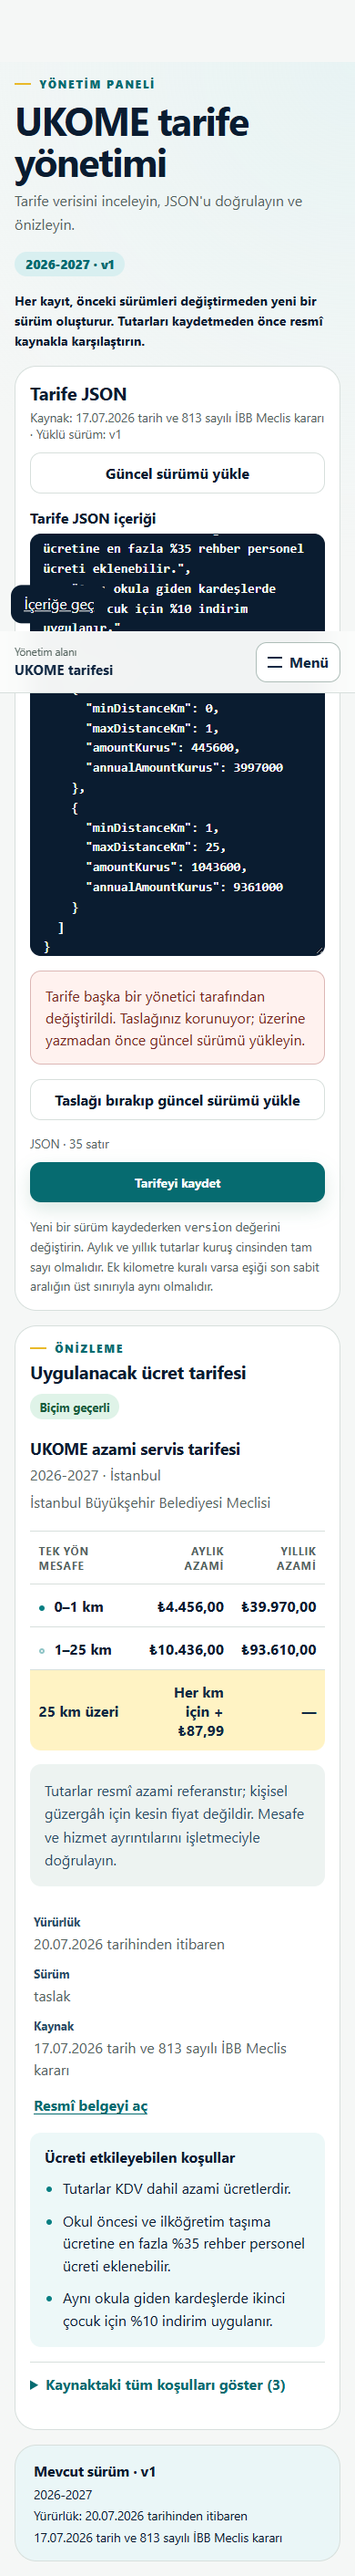
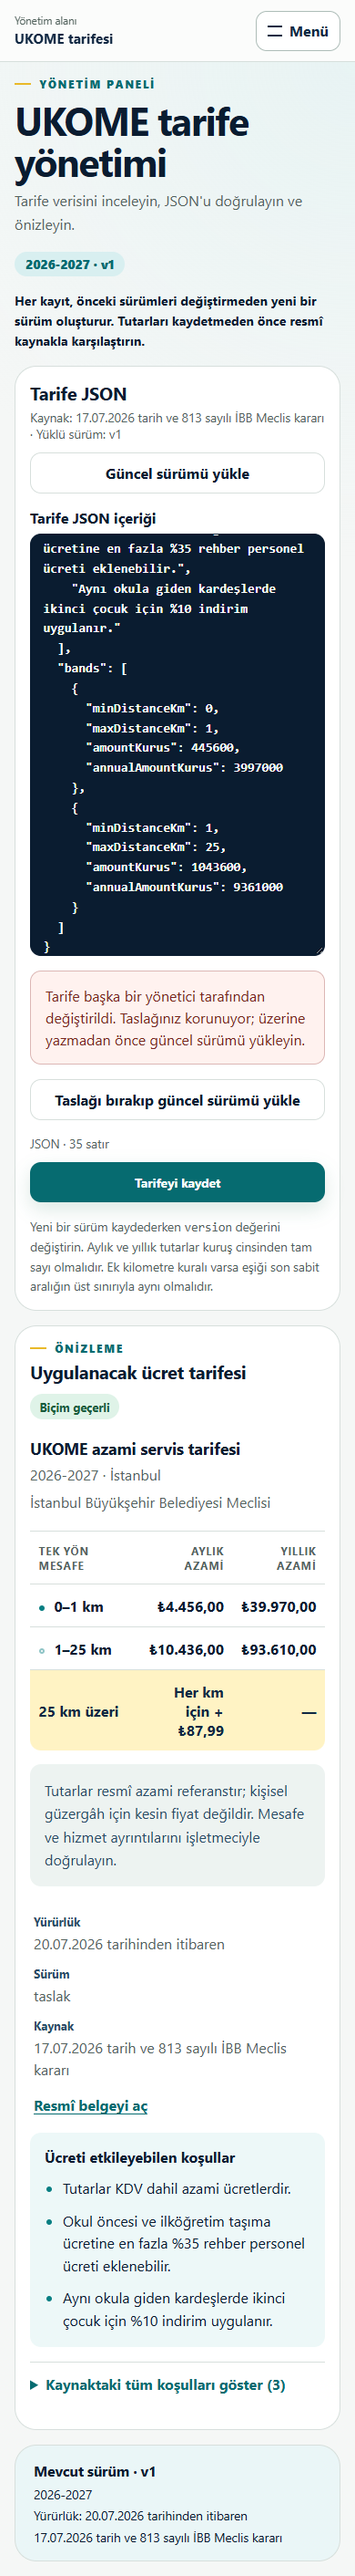
test(admin): cover overlapping tariff loads and mobile states
Complete overlapping tariff loads out of order and prove older responses
cannot change the draft, version, or next expected version. Cover the mobile
states in a browser and capture them after an instant scroll, because smooth
scrolling misplaced fixed elements in the full-page images.

Changed region(s): [[0.0308, 0.2181, 0.9231, 0.2805], [0.0615, 0.0, 0.2154, 0.0312], [0.8308, 0.0, 0.9231, 0.0312]]

diff --git a/servisimibul-frontend/src/features/admin/admin-flow.test.tsx b/servisimibul-frontend/src/features/admin/admin-flow.test.tsx
@@ -832,6 +832,168 @@ function deferred() {
   return { promise, resolve }
 }
 
+describe('overlapping tariff loads', () => {
+  function plannedLoads(
+    ...plan: ((gate: Promise<void>) => Promise<Response>)[]
+  ) {
+    const gates = plan.map(() => deferred())
+    const started = { count: 0 }
+    const handler = http.get('/api/v1/tariffs', async () => {
+      const index = started.count
+      started.count += 1
+      return plan[index](gates[index].promise)
+    })
+    return { gates, handler, started }
+  }
+
+  const success =
+    (version: string) =>
+    async (gate: Promise<void>): Promise<Response> => {
+      await gate
+      return HttpResponse.json(tariff(version))
+    }
+  const failure = async (gate: Promise<void>): Promise<Response> => {
+    await gate
+    return HttpResponse.json(
+      {
+        title: 'Error',
+        status: 500,
+        detail: 'Eski veya yeni yükleme hatası.',
+        code: 'failed',
+      },
+      { status: 500 },
+    )
+  }
+
+  // Both activations land before React re-renders, so two loads overlap.
+  function activateTwice(button: HTMLElement) {
+    act(() => {
+      button.click()
+      button.click()
+    })
+  }
+
+  async function settleLateResponse(release: () => void) {
+    const reads: Promise<unknown>[] = []
+    const read = Response.prototype.text
+    vi.spyOn(Response.prototype, 'text').mockImplementation(function (
+      this: Response,
+    ) {
+      const result = read.call(this)
+      reads.push(result)
+      return result
+    })
+    release()
+    await waitFor(() => expect(reads.length).toBeGreaterThan(0))
+    await act(async () => {
+      await Promise.all(reads)
+      await new Promise((resolve) => setTimeout(resolve, 0))
+    })
+    vi.mocked(Response.prototype.text).mockRestore()
+  }
+
+  async function expectSaveAgainst(expectedVersion: string, next: string) {
+    fireEvent.change(screen.getByLabelText('Tarife JSON içeriği'), {
+      target: { value: JSON.stringify(tariff(next)) },
+    })
+    fireEvent.click(screen.getByRole('button', { name: 'Tarifeyi kaydet' }))
+    expect(
+      await screen.findByText(`Tarife ${next} sürümüyle kaydedildi.`),
+    ).toBeInTheDocument()
+    expect(savedBody).toEqual({ expectedVersion, tariff: tariff(next) })
+  }
+
+  let savedBody: unknown
+  const saveHandler = http.put(
+    '/api/v1/admin/tariffs/34',
+    async ({ request }) => {
+      savedBody = await request.json()
+      return HttpResponse.json(
+        tariff((savedBody as { tariff: { version: string } }).tariff.version),
+      )
+    },
+  )
+
+  it('keeps the newer tariff when an older success arrives last', async () => {
+    const loads = plannedLoads(success('v0'), success('v1'), success('v2'))
+    loads.gates[0].resolve()
+    server.use(authHandler('ADMIN'), csrfHandler(), loads.handler, saveHandler)
+    renderRoute('/admin/tariffs')
+    await screen.findByLabelText('Tarife JSON içeriği')
+
+    activateTwice(screen.getByRole('button', { name: 'Güncel sürümü yükle' }))
+    await waitFor(() => expect(loads.started.count).toBe(3))
+    loads.gates[2].resolve()
+    const editor = await screen.findByLabelText('Tarife JSON içeriği')
+    expect(editor).toHaveValue(JSON.stringify(tariff('v2'), null, 2))
+
+    await settleLateResponse(loads.gates[1].resolve)
+
+    expect(screen.getByLabelText('Tarife JSON içeriği')).toHaveValue(
+      JSON.stringify(tariff('v2'), null, 2),
+    )
+    expect(screen.getByText(/Yüklü sürüm: v2/)).toBeInTheDocument()
+    expect(
+      screen.getByRole('heading', { name: 'Mevcut sürüm · v2' }),
+    ).toBeInTheDocument()
+    await expectSaveAgainst('v2', 'v3')
+  })
+
+  it('shows no error when an older failure arrives last', async () => {
+    const loads = plannedLoads(success('v0'), failure, success('v2'))
+    loads.gates[0].resolve()
+    server.use(authHandler('ADMIN'), csrfHandler(), loads.handler, saveHandler)
+    renderRoute('/admin/tariffs')
+    await screen.findByLabelText('Tarife JSON içeriği')
+
+    activateTwice(screen.getByRole('button', { name: 'Güncel sürümü yükle' }))
+    await waitFor(() => expect(loads.started.count).toBe(3))
+    loads.gates[2].resolve()
+    await screen.findByLabelText('Tarife JSON içeriği')
+
+    await settleLateResponse(loads.gates[1].resolve)
+
+    expect(screen.queryByRole('alert')).not.toBeInTheDocument()
+    const editor = screen.getByLabelText('Tarife JSON içeriği')
+    expect(editor).toHaveValue(JSON.stringify(tariff('v2'), null, 2))
+    expect(editor).toHaveProperty('readOnly', false)
+    expect(screen.getByText(/Yüklü sürüm: v2/)).toBeInTheDocument()
+    await expectSaveAgainst('v2', 'v3')
+  })
+
+  it('keeps the latest failure and the draft when an older success arrives last', async () => {
+    const loads = plannedLoads(success('v1'), success('v-old'), failure)
+    loads.gates[0].resolve()
+    server.use(authHandler('ADMIN'), csrfHandler(), loads.handler, saveHandler)
+    renderRoute('/admin/tariffs')
+    const editor = await screen.findByLabelText('Tarife JSON içeriği')
+    const draft = JSON.stringify(tariff('my-draft'))
+    fireEvent.change(editor, { target: { value: draft } })
+    fireEvent.click(screen.getByRole('button', { name: 'Güncel sürümü yükle' }))
+    activateTwice(
+      within(
+        await screen.findByRole('dialog', {
+          name: 'Kaydedilmemiş taslak bırakılsın mı?',
+        }),
+      ).getByRole('button', { name: 'Taslağı bırak' }),
+    )
+    await waitFor(() => expect(loads.started.count).toBe(3))
+    loads.gates[2].resolve()
+    expect(await screen.findByRole('alert')).toHaveTextContent(
+      'Eski veya yeni yükleme hatası.',
+    )
+
+    await settleLateResponse(loads.gates[1].resolve)
+
+    expect(screen.getByRole('alert')).toHaveTextContent(
+      'Eski veya yeni yükleme hatası.',
+    )
+    expect(screen.getByLabelText('Tarife JSON içeriği')).toHaveValue(draft)
+    expect(screen.getByText(/Yüklü sürüm: v1/)).toBeInTheDocument()
+    await expectSaveAgainst('v1', 'my-draft')
+  })
+})
+
 describe('school editor asynchronous ordering', () => {
   const second = {
     ...school(true),

diff --git a/servisimibul-frontend/e2e/ui-fidelity-16-admin-tariffs.spec.ts b/servisimibul-frontend/e2e/ui-fidelity-16-admin-tariffs.spec.ts
@@ -1,5 +1,5 @@
 import AxeBuilder from '@axe-core/playwright'
-import { expect, test, type Page } from '@playwright/test'
+import { expect, test, type Locator, type Page } from '@playwright/test'
 import { createMockApiState, installMockApi } from './support/mock-api'
 
 const viewports = [
@@ -124,6 +124,77 @@ test('M04 offers a retry when the tariff cannot load', async ({ page }) => {
   await expect(page.getByLabel('Tarife JSON içeriği')).toBeVisible()
 })
 
+for (const viewport of [
+  { name: 'mobile', width: 390, height: 844 },
+  { name: 'compact', width: 320, height: 800 },
+] as const) {
+  test(`M04 stays usable after validation and conflict on ${viewport.name}`, async ({
+    page,
+  }) => {
+    await page.setViewportSize(viewport)
+    await prepare(page)
+    await page.goto('/admin/tariffs')
+    const editor = page.getByLabel('Tarife JSON içeriği')
+    await expect(editor).toBeVisible()
+    const loaded = await editor.inputValue()
+    const skipLink = page.getByRole('link', { name: 'İçeriğe geç' })
+    const save = page.getByRole('button', { name: 'Tarifeyi kaydet' })
+
+    await page.keyboard.press('Tab')
+    await expect(skipLink).toBeFocused()
+    await expect(skipLink).toBeInViewport({ ratio: 1 })
+    await editor.click()
+    await expect(skipLink).not.toBeInViewport()
+
+    await expect(editor).toHaveJSProperty('scrollTop', 0)
+    await editor.evaluate((node) => {
+      node.scrollTop = 200
+    })
+    await expect(editor).not.toHaveJSProperty('scrollTop', 0)
+
+    await editor.fill('{ geçersiz')
+    await save.click()
+    const alert = page.getByRole('alert')
+    await expect(alert).toContainText('JSON biçimi geçersiz')
+    await expect(skipLink).not.toBeInViewport()
+    await assertReachable(page, alert)
+    await assertReachable(page, save)
+    await assertReachable(
+      page,
+      page.getByRole('button', { name: 'Güncel sürümü yükle' }),
+    )
+    await assertAccessibleAndContained(page)
+
+    await page.route('**/api/v1/admin/tariffs/34', (route) =>
+      route.fulfill({
+        status: 409,
+        json: {
+          title: 'Conflict',
+          status: 409,
+          detail: 'Version conflict',
+          code: 'tariff_version_conflict',
+        },
+      }),
+    )
+    await editor.fill(loaded)
+    await save.click()
+    await expect(alert).toContainText('Taslağınız korunuyor')
+    await expect(skipLink).not.toBeInViewport()
+    await assertReachable(page, alert)
+    const discard = page.getByRole('button', {
+      name: 'Taslağı bırakıp güncel sürümü yükle',
+    })
+    await assertReachable(page, discard)
+    await assertReachable(page, save)
+    await assertAccessibleAndContained(page)
+
+    await discard.focus()
+    await page.keyboard.press('Enter')
+    await expect(editor).toBeFocused()
+    await expect(alert).toHaveCount(0)
+  })
+}
+
 async function prepare(page: Page) {
   await installMockApi(page, createMockApiState())
   await page.goto('/operator/login')
@@ -131,6 +202,25 @@ async function prepare(page: Page) {
   await page.getByLabel('Şifre', { exact: true }).fill('Password123!')
   await page.getByRole('button', { name: 'Giriş yap' }).click()
   await expect(page).toHaveURL(/\/admin\/applications$/)
+}
+
+// The element must not sit under the sticky bar once it is scrolled to.
+async function assertReachable(page: Page, target: Locator) {
+  await target.scrollIntoViewIfNeeded()
+  await expect(target).toBeInViewport({ ratio: 1 })
+  expect(
+    await target.evaluate((node) => {
+      const box = node.getBoundingClientRect()
+      const top = document.elementFromPoint(
+        box.left + box.width / 2,
+        box.top + box.height / 2,
+      )
+      return top === node || node.contains(top)
+    }),
+  ).toBe(true)
+  await expect(
+    page.locator('.workspace-mobile-bar').filter({ has: target }),
+  ).toHaveCount(0)
 }
 
 async function assertAccessibleAndContained(page: Page) {
@@ -156,7 +246,9 @@ async function capture(page: Page, name: string, viewport: string) {
     if (document.activeElement instanceof HTMLElement) {
       document.activeElement.blur()
     }
-    window.scrollTo(0, 0)
+    // The app scrolls smoothly: a capture during that animation misplaces the
+    // sticky bar and the off-screen skip link in the full-page image.
+    window.scrollTo({ top: 0, behavior: 'instant' })
   })
   await page.screenshot({
     fullPage: true,

diff --git a/docs/06_PROGRESS.md b/docs/06_PROGRESS.md
@@ -932,6 +932,7 @@ Never mark tasks done because code was generated: verification and review requir
 - Behavior corrections: a failed first load showed an empty editor and `Henüz yayımlanmış sürüm yok`, with a save that would send a null expected version; it now shows an error with a retry and no editor. Reloading over an edited draft now asks for confirmation, a failed reload keeps the draft, stale load responses are discarded, and the editor is read-only while saving.
 - Before/after desktop and mobile captures with invalid and conflict states are under `docs/screenshots/ui-fidelity-16/`; API responses in them are mocked.
 - Frontend ESLint, strict TypeScript, and the Vite production build passed. The complete serial Vitest suite passed 174/174, and the complete mocked Chromium suite passed 102/102, including WCAG 2.2 AA and overflow checks at 1440, 768, 390, and 320 pixels. The real full-stack journey, which saves a new tariff version through this page, passed locally on disposable PostgreSQL.
+- Review follow-up: three tests now complete overlapping tariff loads out of order. Older successes and failures cannot change the editor, version, or next `expectedVersion`, and removing either guard fails its tests, so the page needed no change. The loading view hides the reload controls, so the tests overlap two reloads activated in one render batch; an initial load cannot overlap a reload through the UI. The skip link and sticky bar in the middle of two mobile captures were a capture artifact: `scroll-behavior: smooth` left `scrollY` at 694 right after `scrollTo(0, 0)`, and a full-page image shows the skip link parked above the viewport. The helper now scrolls instantly and the affected images were regenerated. A new browser test at 390 and 320 pixels covers the skip link, the editor scroll, reachable controls below the sticky bar, and focus after reload.
 - No backend source, API contract, migration, dependency, lockfile, Supabase state, credential, or production configuration changed.
 
 ## Verified AUDIT-F8 inactive demand reopening evidence — 2026-10-31
